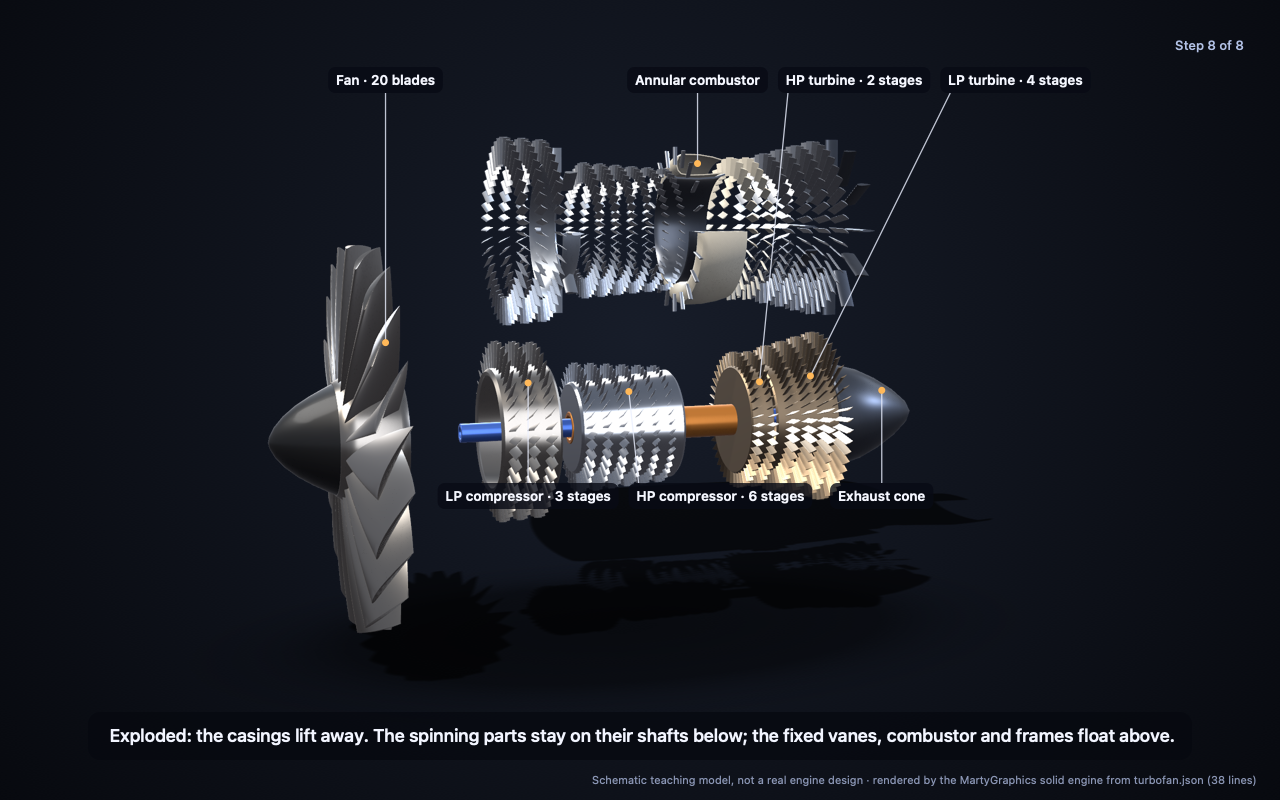
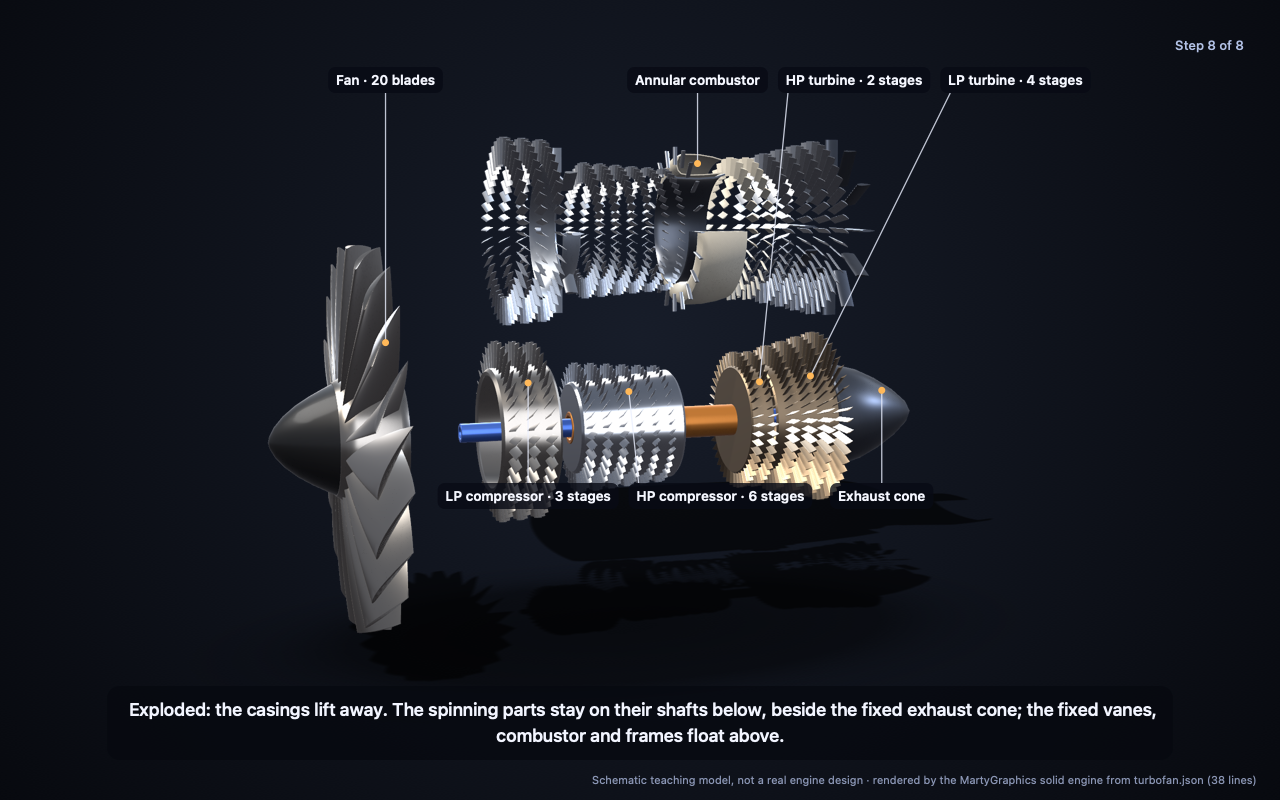
Re-render the exploded step and record the lower-bound clearance in the receipts
docs/assets/turbofan/exploded.png is re-rendered from a clean tree at
f75f540b165a49edbafa82b136958a9ebaddc1b2 with the corrected step-8 caption.
The hero snapshot is byte-identical to the main capture, so the other turbofan
assets are kept; provenance.json records why, notes that the main capture
commit is a local pre-rebase commit (the sourceFiles hashes are the link),
and states the 4.52 mm clearance lower bound and the new test counts. The
gearbox provenance now records the mp4togif command behind
gearbox-loop-640.gif. FILES.json regenerated.

Changed region(s): [[0.0625, 0.875, 0.9062, 0.9375]]

diff --git a/CHANGELOG.md b/CHANGELOG.md
@@ -9,7 +9,7 @@
   `titanium`, `nickelAlloy`, `composite` and `ceramic` material presets. Add
   `Examples/Turbofan`: a schematic two-spool, high-bypass turbofan from 38 lines of JSON (LP
   spool at N1, HP spool at N2 = 3 × N1, eight teaching steps), `--verify` checks for closed
-  meshes, coaxial spools, the authored speed ratio and swept clearance, real-time stills and a
+  meshes, coaxial spools, the authored speed ratio and a lower bound on swept clearance, real-time stills and a
   seamless 12-second loop, and `MartySolidRT`, which maps an `MGSolidSnapshot` to an
   `MGRTScene` so the same model is path traced. Render receipt in `docs/assets/turbofan`.
   The README now leads with the turbofan loop and shows the path-traced gearbox as a
